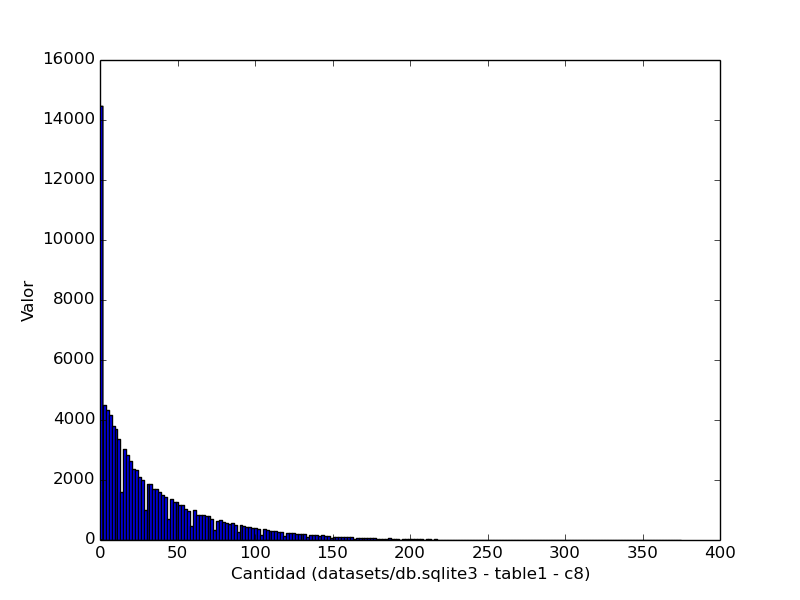
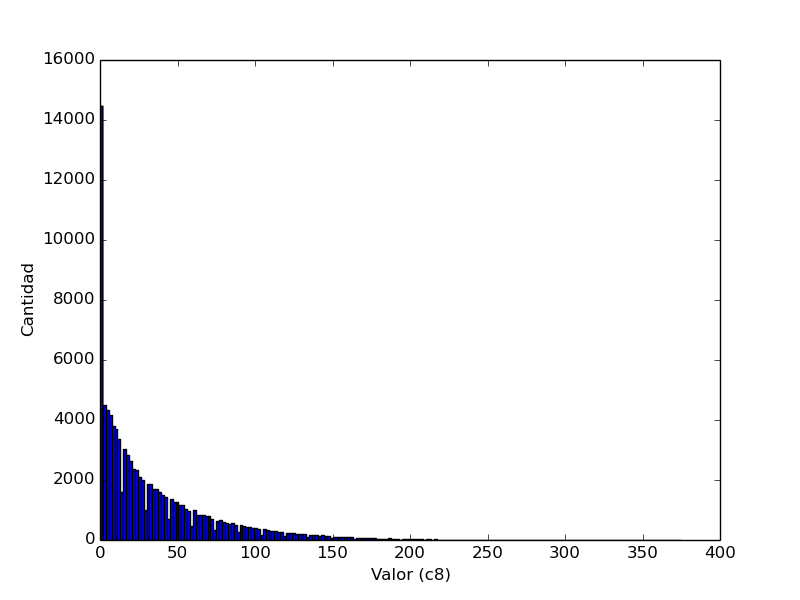
graficos

diff --git a/tp2/informe/teorico.tex b/tp2/informe/teorico.tex
@@ -30,3 +30,30 @@ Por su lado, el método de Distribution Steps presenta comportamientos matemáti
 \end{itemize}
 
 Por último, hace falta aclarar que en ambos estimadores un mayor parámetro $S$ permitirá una precisión mayor, pues aumenta la ``definición'' de los buckets y con eso la veracidad de las suposiciones en las que se basan los estimadores. Como ambos asumen en algún momento que $x_0$ cae en la mitad de su bucket, cuantos menos elementos haya en los mismos más verdadera será la afirmación y por ende mejor será la performance. Concluimos entonces que a un mayor $S$ la performance de ambos estimadores mejorará.
+
+\subsection{Performance en distribuciones normales}
+
+
+
+\subsection{Performance de nuestro estimador propio}
+Dado que nuestro estimador obtiene el histograma más detallado posible de la distribución que analiza (pues todo bucket tiene ancho 1) podemos decir que no pierde información. A partir de una instancia de nuestro estimador se puede reconstruir la distribución entera, con lo cual CuentaApariciones\texttrademark es \textbf{perfecto}. Su error siempre será 0 porque tiene en él toda la información necesaria. ¿Dónde está el truco?
+
+Los problemas son tres:
+\begin{itemize}
+ \item A decir verdad, sí pierde información: se pierde el orden en el que estaban los datos. No se puede reconstruir la columna, solo su multiconjunto de elementos.
+ \item Ocupa grandes cantidades de memoria en el caso general. Para darnos una idea, en una distribución de rango un millón con todos los valores poblados, el estimador consume alrededor de 8MB. Puede parecer poco, pero si consideramos que en general las bases de datos usan estimadores para todos los atributos numéricos y en tablas variadas, el número puede salirse de control bastante rápidamente.
+ \item Puede ponerse lento para calcular $Sel(>x_0)$ si $x_0$ no aparece en la columna. Tarda tiempo lineal en la cantidad de valores distintos de los elementos (porque hace una búsqueda lineal del máximo elemento menor a $x_0$), lo cual puede ser demasiado tiempo para una gran cantidad de valores distintos.
+\end{itemize}
+
+Entonces, concluimos que es un excelente estimador para distribuciones esparsas o de rangos pequeños, pero que puede no funcionar bien para distribuciones densas y muy extensas, y no escala para varias columnas en varias tablas. Lo cual nos lleva a la proxima sección...
+
+\subsection{Distribuciones en las que los estimadores exhiben baja perfomance}
+Mencionamos ya un poco este tema en la sección de estimadores. Miremos primero la selectividad por igualdad.
+\begin{itemize}
+ \item El estimador por Histogramas Clásicos presentará mala performance en una distribución con elementos distribuidos en intervalos y en el medio ``lagunas'' despobladas, por ejemplo la capacidad en GB de un conjunto de discos rígidos. Si la longitud de las lagunas es menor que el ancho de los buckets, siempre que sea consultado por elementos que caigan en las ``lagunas'' responderá una probabilidad grande cuando en realidad la respuesta correcta será 0. Si el ancho de los buckets es menor al de las lagunas, de todos modos la performance será mala en los valores cercanos a los que sí aparecen en la distribución.
+ \item El estimador de Distribution Steps presentará mala performance en una distribución donde la simple densidad no sea un buen representante de la probabilidad. Por ejemplo, con elementos distribuidos de formas poco equitativas, donde algunos valores tienen muchos representantes y otros pocos.
+\end{itemize}
+Respecto a la selectividad por mayor:
+\begin{itemize}
+ \item Como ya mencionamos, el estimador de Histogramas Clásicos funcionará mal en distribuciones con muchos valores concentrados entre sí.
+\end{itemize}

diff --git a/tp2/source/estimators.py b/tp2/source/estimators.py
@@ -221,6 +221,8 @@ class EstimadorGrupo(Estimador):
         self.dict_acum_values = dict(zip(list(sorted(self.dict_cant_values.keys())), list(acum)))
         consulta_cache = "SELECT " + self.columna + ", COUNT(*) FROM " + self.tabla + " GROUP BY " + self.columna + " ORDER BY COUNT(*) DESC"
         self.dict_cache = dict((x, y) for x, y in [x for x in self.db.realizar_consulta(consulta_cache)][:self.parametro])  # cache de tamaño self.parametro
+        import sys
+        print sys.getsizeof(self.dict_cant_values) + sum([sys.getsizeof(x) for x in self.dict_cant_values.keys()]) + sum([sys.getsizeof(x) for x in self.dict_cant_values.values()])
 
     def estimate_equal(self, valor):
         if valor in self.dict_cache:

diff --git a/tp2/source/ttest_performances.py b/tp2/source/ttest_performances.py
@@ -12,8 +12,8 @@ def graficar_dataset(nombre_bd, tabla, columna):
     values = list(bd.consultar(tabla, columna, ""))
     values = [v for (v,) in values]
     plt.hist(values, 200)
-    plt.ylabel("Valor")
-    plt.xlabel("Cantidad" + " (" + nombre_bd + " - " + tabla + " - " + columna + ")")
+    plt.ylabel("Cantidad")
+    plt.xlabel("Valor (" + columna + ")")
     archivo = "datasets/img/" + columna + ".png"
     plt.savefig(archivo)
 
